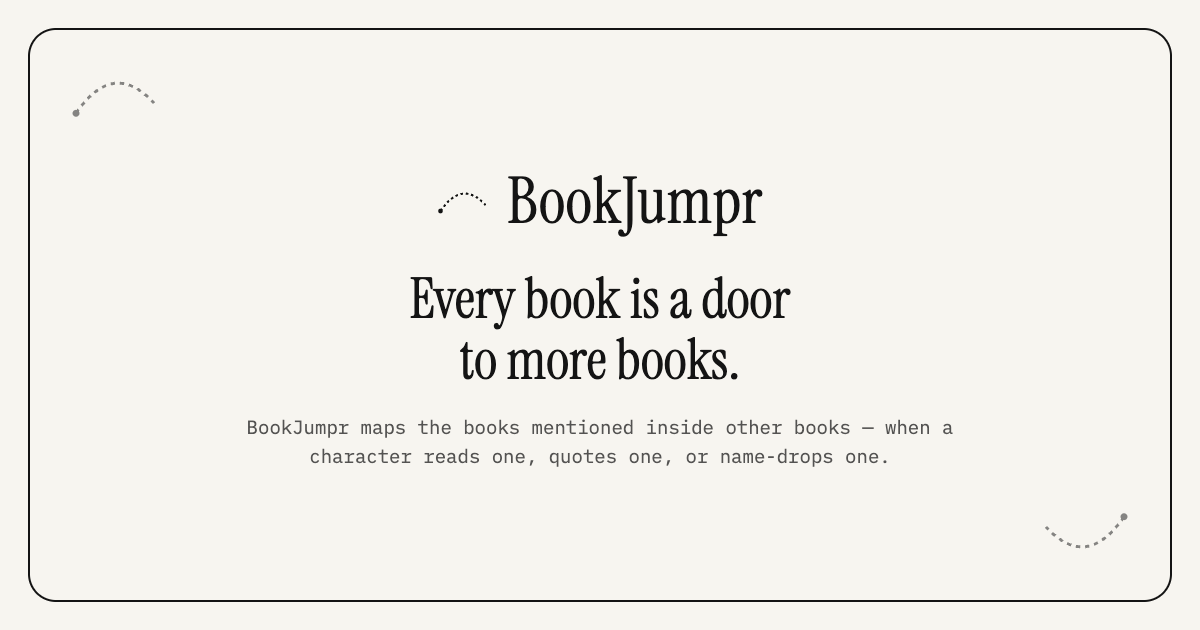
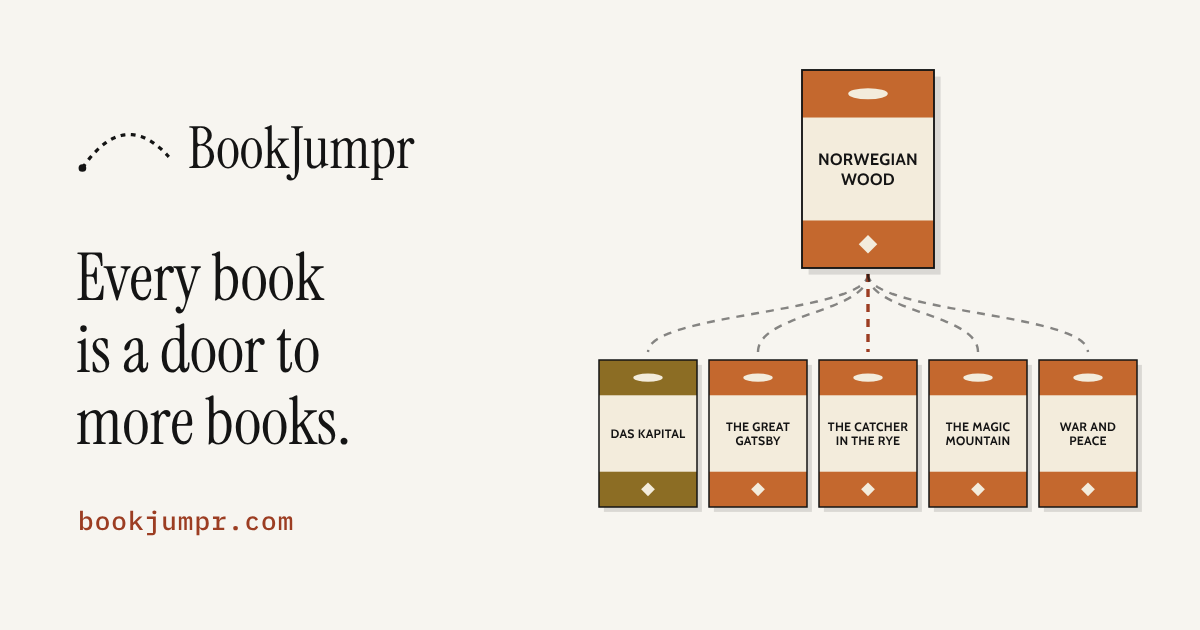
Share image: the Norwegian Wood fan-out card
social-preview.png regenerated with tools/render-social-preview.mjs; og:image/twitter:image get ?v=2 so
platforms that cache previews by URL pick up the new one.

Claude-Session: https://claude.ai/code/session_01535eu2RW9eWjUo4kR3gHKf

diff --git a/index.html b/index.html
@@ -12,14 +12,14 @@
 <meta property="og:title" content="BookJumpr — Every book is a door to more books">
 <meta property="og:description" content="BookJumpr maps the books mentioned inside other books — when a character reads one, quotes one, or name-drops one. Pick a book, browse its shelf, and jump.">
 <meta property="og:url" content="https://bookjumpr.com/">
-<meta property="og:image" content="https://bookjumpr.com/social-preview.png">
+<meta property="og:image" content="https://bookjumpr.com/social-preview.png?v=2">
 <meta property="og:image:width" content="1200">
 <meta property="og:image:height" content="630">
 <meta property="og:image:alt" content="BookJumpr — every book is a door to more books">
 <meta name="twitter:card" content="summary_large_image">
 <meta name="twitter:title" content="BookJumpr — Every book is a door to more books">
 <meta name="twitter:description" content="BookJumpr maps the books mentioned inside other books — when a character reads one, quotes one, or name-drops one.">
-<meta name="twitter:image" content="https://bookjumpr.com/social-preview.png">
+<meta name="twitter:image" content="https://bookjumpr.com/social-preview.png?v=2">
 <meta name="theme-color" content="#f7f5f0">
 <link rel="apple-touch-icon" href="/apple-touch-icon.png">
 <link rel="manifest" href="/manifest.json">
